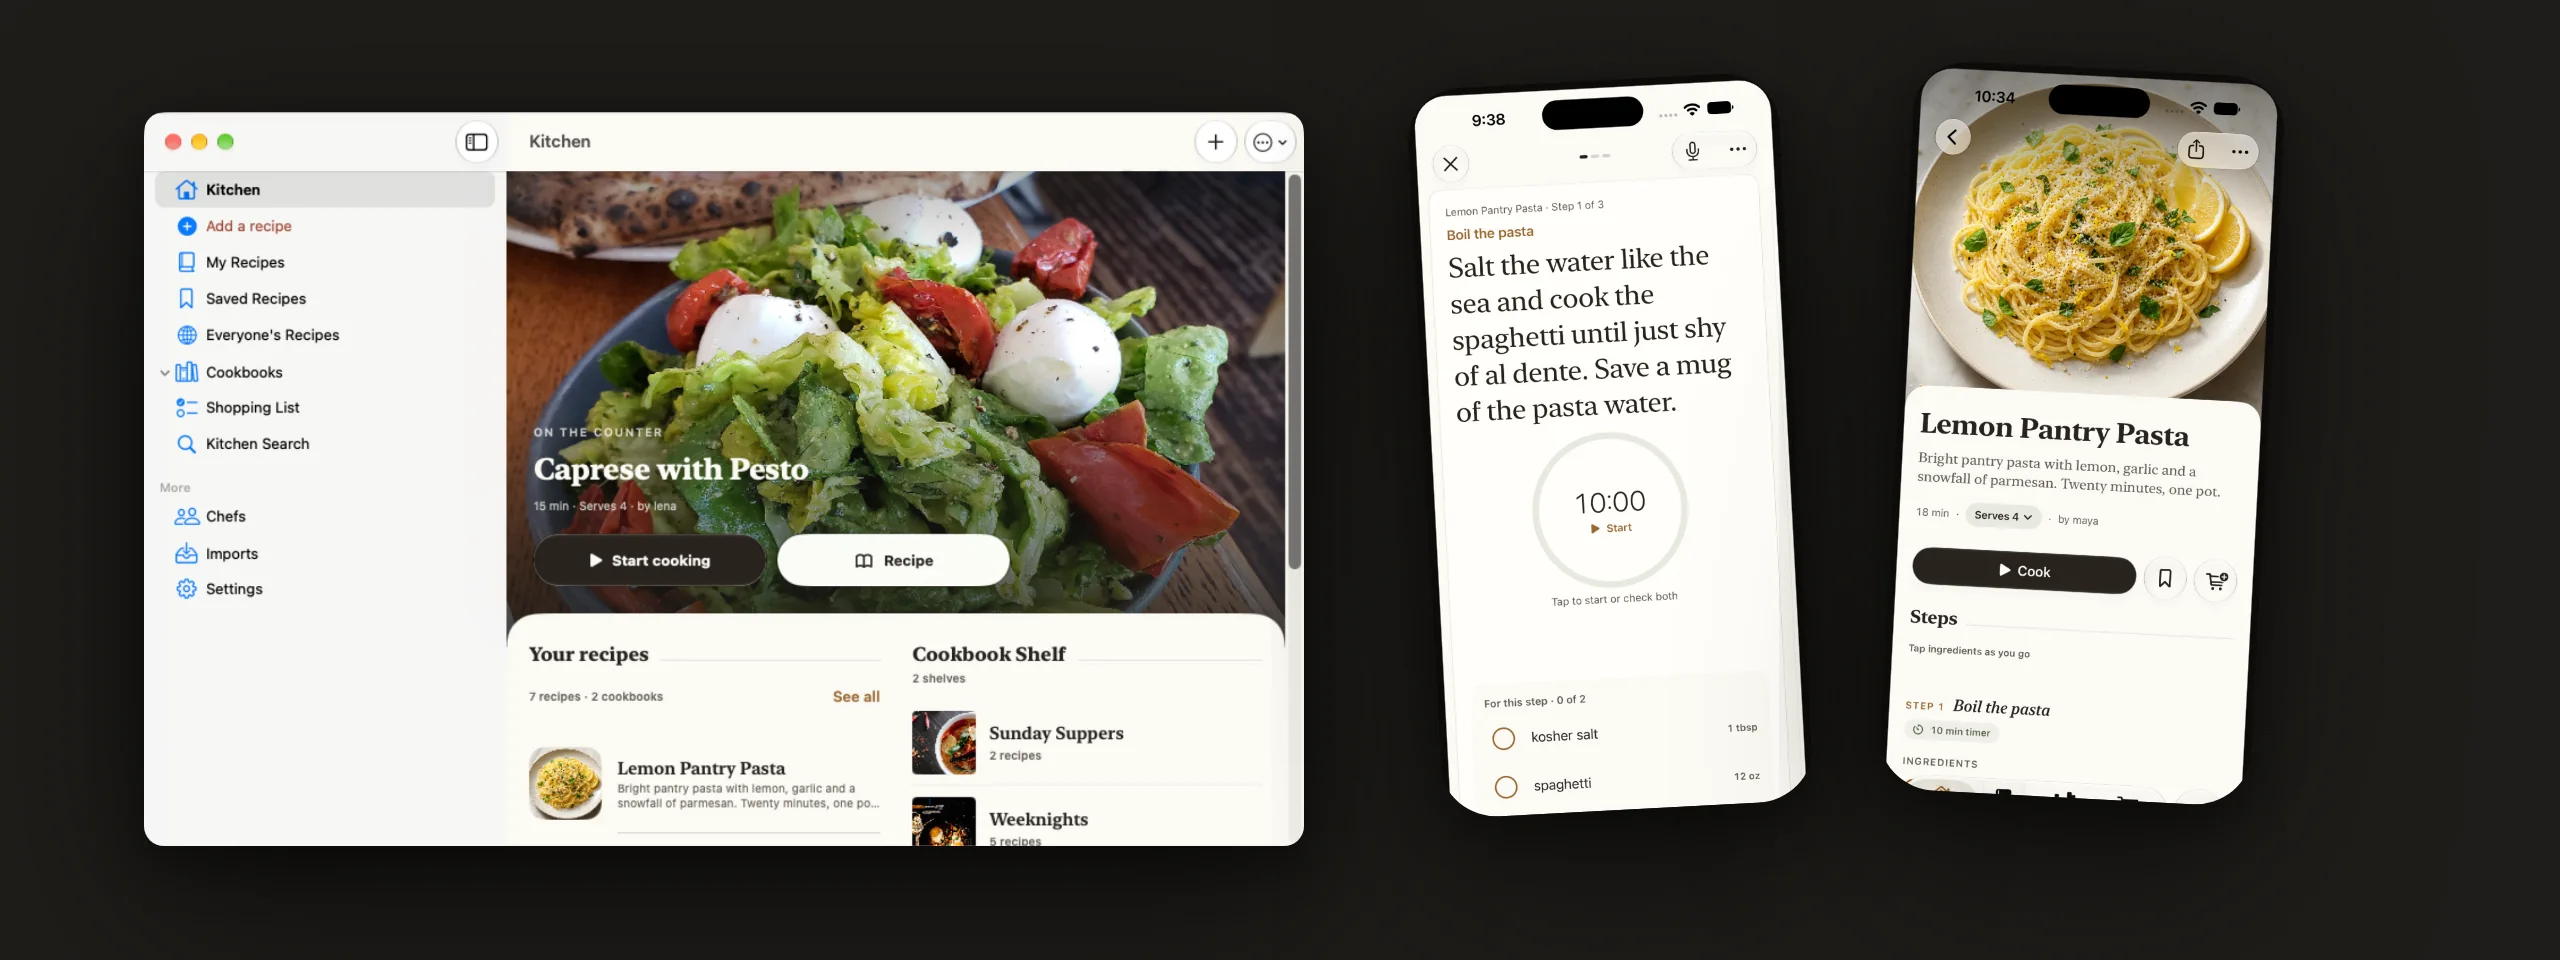
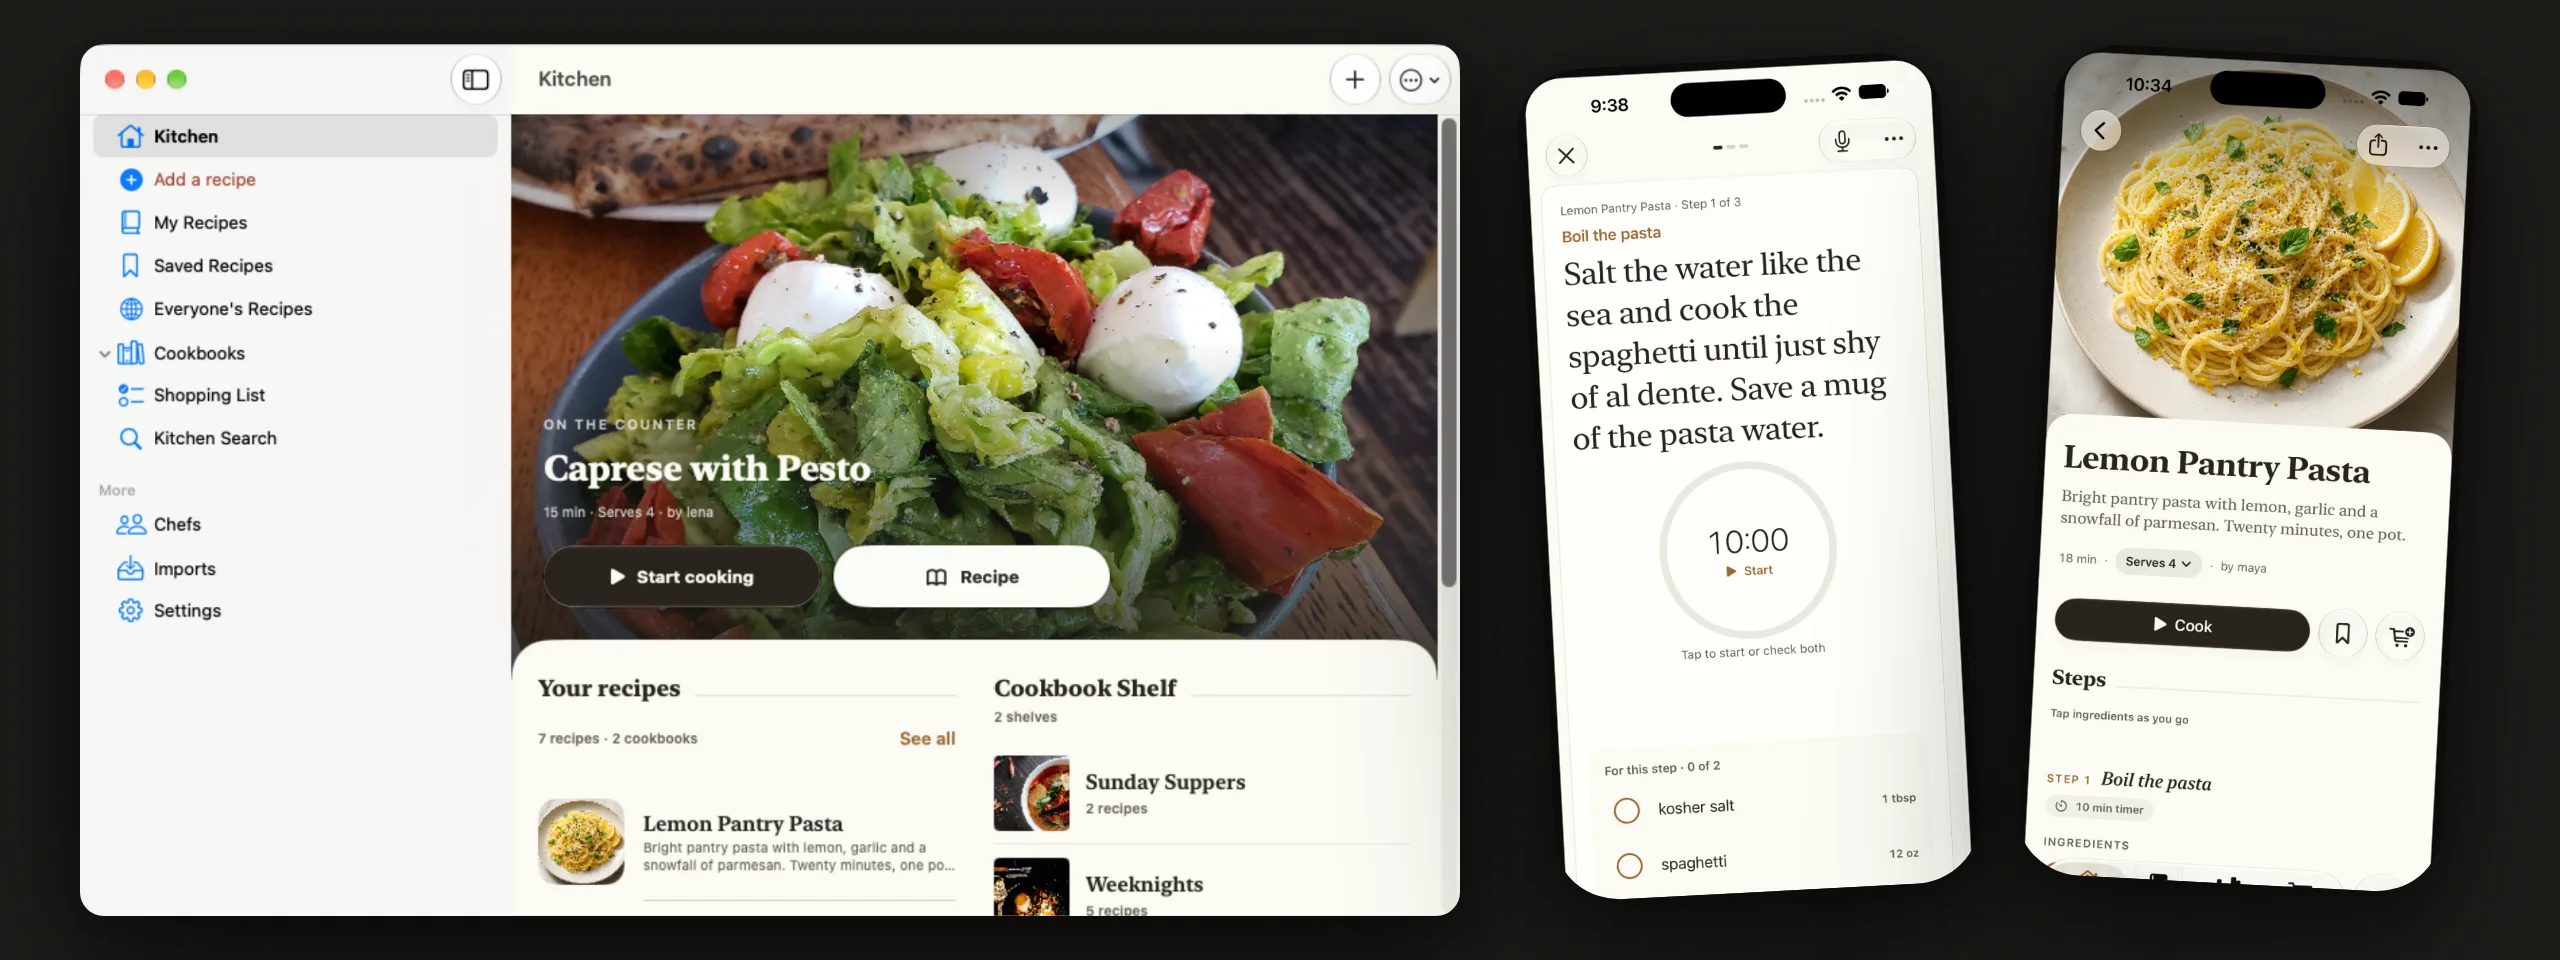
Apple header: larger devices, readable at phone width (#5)

diff --git a/brand/tools/compose.html b/brand/tools/compose.html
@@ -86,9 +86,9 @@ const A = {
   `,
   // Apple: the Mac window, an iPhone in front.
   apple: () => `
-    <div class="window shadow" style="left:72px;top:56px;width:580px;border-radius:10px"><img src="mac-kitchen.png" style="width:580px"></div>
-    ${phone("phone-01-cook.png", 712, 40, 186, -3, 2)}
-    ${phone("phone-02-recipe.png", 948, 34, 186, 3, 2)}
+    <div class="window shadow" style="left:40px;top:22px;width:690px;border-radius:12px"><img src="mac-kitchen.png" style="width:690px"></div>
+    ${phone("phone-01-cook.png", 768, 30, 212, -3, 2)}
+    ${phone("phone-02-recipe.png", 1018, 26, 212, 3, 2)}
   `,
   // RedwoodJS dbAuth OAuth: the key photo on the right, paper and the mark on the left.
   oauth: () => still("oauth-key.png"),
